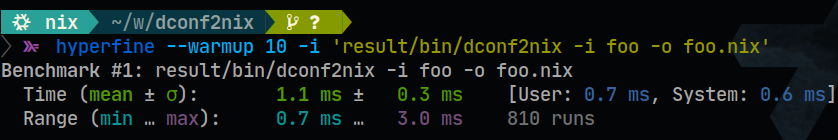
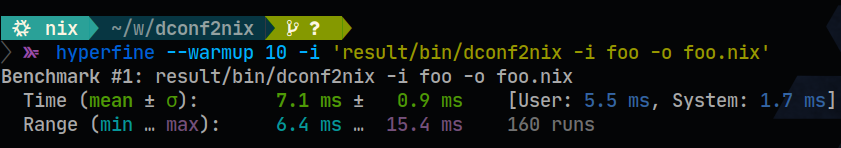
updating benchmark results

diff --git a/README.md b/README.md
@@ -8,7 +8,7 @@ A convenient converter of [DConf](https://wiki.gnome.org/Projects/dconf) files t
 
 ### Benchmarks
 
-Take it with a grain of salt but on my machine it takes an average of 1.1ms to process a 349 lines configuration and generate a Nix file with 433 lines.
+Take it with a grain of salt but on my machine it takes an average of 7.1ms to process a 349 lines configuration and generate a Nix file with 433 lines.
 
 ![benchmark](img/benchmark.png)
 
